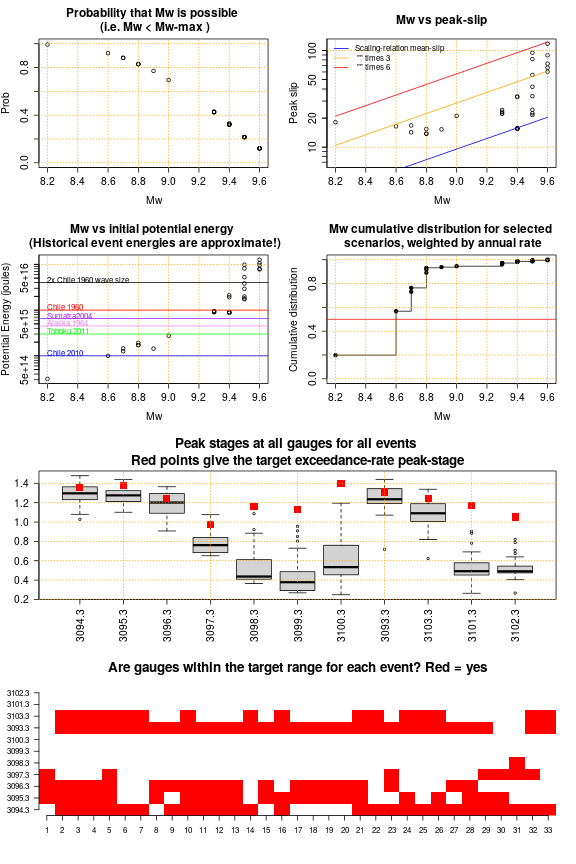
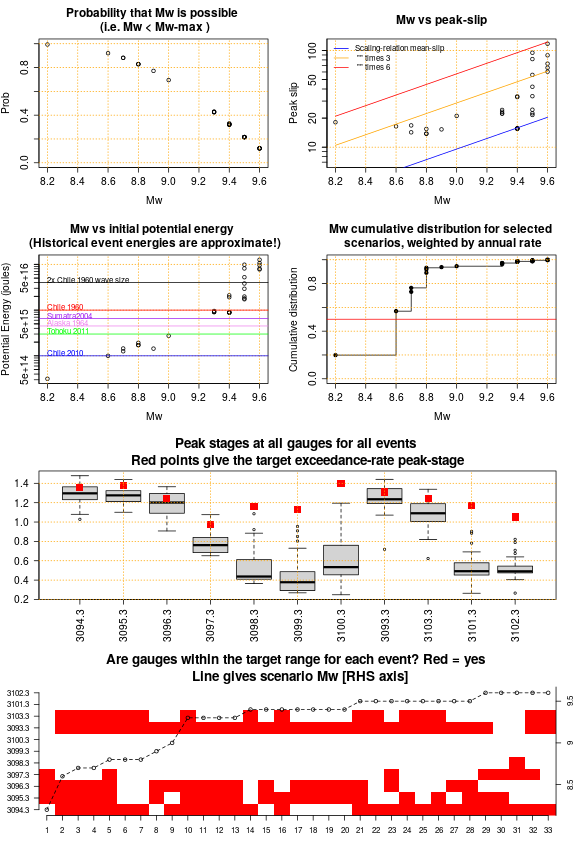
update figure

Changed region(s): [[0.1875, 0.75, 0.8438, 0.8125], [0.9375, 0.7812, 0.9688, 0.9375]]

diff --git a/ptha_access/example_event_access_scripts/multi_site_scenario_selection/example_usage.md b/ptha_access/example_event_access_scripts/multi_site_scenario_selection/example_usage.md
@@ -229,7 +229,7 @@ Here we explain the above plot:
 
 * The third-row panel shows the distribution of maximum-stage values for each of the selected scenarios using [box-plots](https://en.wikipedia.org/wiki/Box_plot), along with the target maximum-stage values. As expected the target value is never exceeded by much. Also, not all gauges achieve the target value. That's because some gauges are less affected by the Kermadec-Tonga source-zone, as compared with other sources. Scenarios that produced high maximum-stage values at these gauges would likely produce excessively high maximum-stage values at the other gauges, and so are disallowed in the current methodology. We should search other source-zones to find scenarios that are appropriate for those gauges.
 
-* The bottom panel shows, for each scenario, which gauges attained maximum-stage values within the target window. This can help with manually selecting some subset of scenarios for further analysis. 
+* The bottom panel shows, for each scenario, which gauges attained maximum-stage values within the target window. This can help with manually selecting some subset of scenarios for further analysis. The gauge labels are on the LHS axis, the scenario magnitude is on the RHS axis and is shown on the line.
 
 # Identifying subsets of the above scenarios
 
